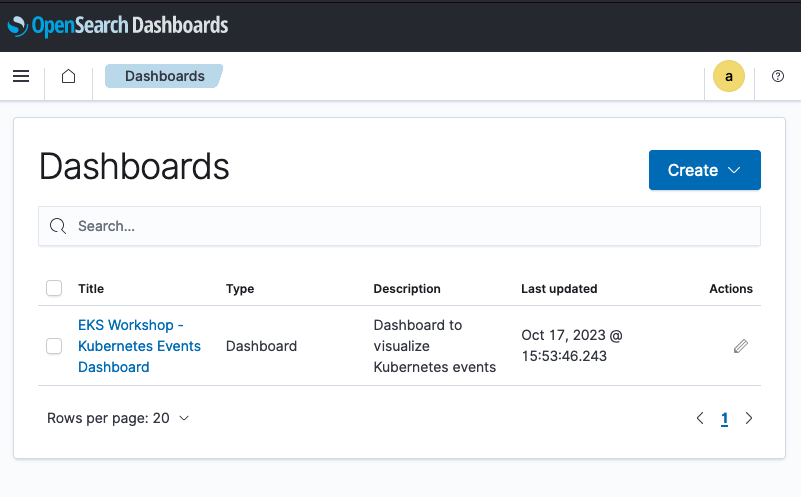
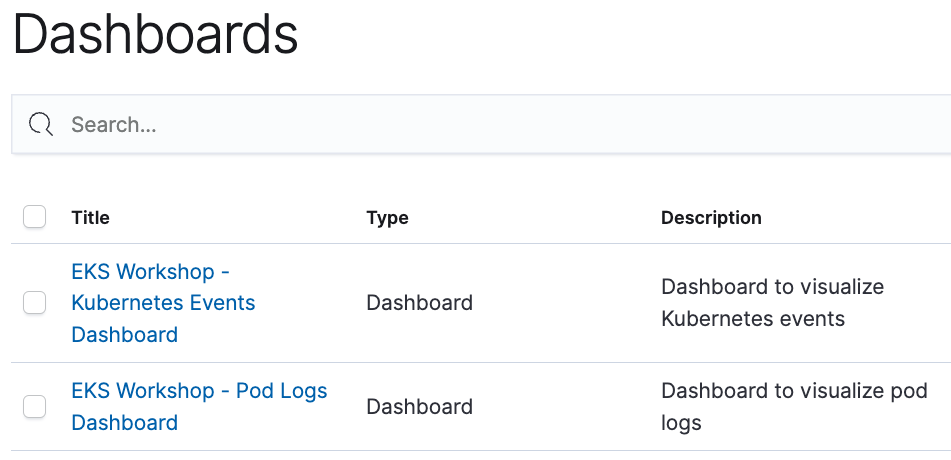
WIP: Pod logs exported to Fluent Bit

diff --git a/website/docs/observability/opensearch/pod-logs.md b/website/docs/observability/opensearch/pod-logs.md
@@ -1,0 +1,53 @@
+---
+title: "Pod logging"
+sidebar_position: 30
+---
+
+This section demonstrates how we can export Kubernetes pod logs to OpenSearch. We'll deploy [AWS for Fluent Bit](https://github.com/aws/aws-for-fluent-bit) to export pod logs to OpenSearch, generate log entries by creating test workloads and explore the OpenSearch pod logs dashboard and use it to identify issues with our test workloads.
+
+Here is a recap of pod logging in Kubernetes and the use of Fluent Bit, which you have already read if you followed the earlier [Logging in EKS](https://www.eksworkshop.com/docs/observability/logging/pod-logging/) section. It describes how pod logging works in Kubernetes:
+
+According to the [Twelve-Factor App manifesto](https://12factor.net/), which provides the gold standard for architecting modern applications, containerized applications should output their [logs to stdout and stderr](https://12factor.net/logs). This is also considered best practice in Kubernetes and cluster level log collection systems are built on this premise.
+
+The Kubernetes logging architecture defines three distinct levels:
+
+* Basic level logging: the ability to grab pods log using kubectl (e.g. `kubectl logs myapp` – where `myapp` is a pod running in my cluster)
+* Node level logging: The container engine captures logs from the application’s `stdout` and `stderr`, and writes them to a log file.
+* Cluster level logging: Building upon node level logging; a log capturing agent runs on each node. The agent collects logs on the local filesystem and sends them to a centralized logging destination like Elasticsearch or CloudWatch. The agent collects two types of logs:
+  * Container logs captured by the container engine on the node
+  * System logs
+
+Kubernetes, by itself, doesn’t provide a native solution to collect and store logs. It configures the container runtime to save logs in JSON format on the local filesystem. Container runtime – like Docker – redirects container’s stdout and stderr streams to a logging driver. In Kubernetes, container logs are written to `/var/log/pods/*.log` on the node. Kubelet and container runtime write their own logs to `/var/logs` or to journald, in operating systems with systemd. Then cluster-wide log collector systems like Fluentd can tail these log files on the node and ship logs for retention. These log collector systems usually run as DaemonSets on worker nodes.
+
+[Fluent Bit](https://fluentbit.io/) is a lightweight log processor and forwarder that allows you to collect data and logs from different sources, enrich them with filters and send them to multiple destinations like CloudWatch, Kinesis Data Firehose, Kinesis Data Streams and Amazon OpenSearch Service.
+
+The following diagram provides an overview of the setup for this section. Fluent Bit will be deployed in the `opensearch-exporter` namespace and it will be configured to forward pod logs to the OpenSearch domain. Pod logs are stored in the `eks-pod-logs` index in OpenSearch.  An OpenSearch dashboard that we loaded earlier is used to visualize the events.
+
+![Pod logs to OpenSearch](./assets/eks-pod-logs-overview.svg)
+
+Deploy Fluent Bit as a [Daemon Set](https://kubernetes.io/docs/concepts/workloads/controllers/daemonset/) and configure it to send pod logs to the OpenSearch domain. The base configuration is available [here](https://github.com/VAR::MANIFESTS_OWNER/VAR::MANIFESTS_REPOSITORY/tree/VAR::MANIFESTS_REF/manifests/modules/observability/opensearch/fluentbit). The OpenSearch credentials we retrieved earlier are used to configure Fluent Bit. The last command verifies that Fluent Bit is running with one pod running on each of the three cluster nodes.
+
+```bash wait=60
+$ helm repo add eks https://aws.github.io/eks-charts
+"eks" has been added to your repositories
+ 
+$ helm install fluentbit eks/aws-for-fluent-bit --namespace opensearch-exporter \
+    --create-namespace \
+    -f ~/environment/eks-workshop/modules/observability/opensearch/fluentbit/values.yaml \
+    --set="opensearch.host"="$OPENSEARCH_HOST" \
+    --set="opensearch.awsRegion"=$AWS_REGION \
+    --set="opensearch.httpUser"="$OPENSEARCH_USER" \
+    --set="opensearch.httpPasswd"="$OPENSEARCH_PASSWORD" \
+    --wait
+ 
+$ kubectl get daemonset -n opensearch-exporter
+
+NAME                           DESIRED   CURRENT   READY   UP-TO-DATE   AVAILABLE   NODE SELECTOR   AGE
+fluentbit-aws-for-fluent-bit   3         3         3       3            3           <none>          60s
+ 
+```
+
+@TODO launch test workload that curls
+
+
+

diff --git a/website/docs/observability/opensearch/events.md b/website/docs/observability/opensearch/events.md
@@ -26,7 +26,7 @@ Kubernetes events are continuously generated but retained within the cluster for
 
 The following diagram provides an overview of the setup for this section. ```kubernetes-events-exporter``` will be deployed in the ```opensearch-exporter``` namespace to forward events to the OpenSearch domain. Events are stored in the ```eks-kubernetes-events``` index in OpenSearch.  An OpenSearch dashboard that we loaded earlier is used to visualize the events.
 
-![OpenSearch](./assets/eks-opensearch-overview.svg)
+![Kubernetes events to OpenSearch](./assets/eks-events-overview.svg)
 
 Deploy Kubernetes events exporter and configure it to send events to our OpenSearch domain. The base configuration is available [here](https://github.com/VAR::MANIFESTS_OWNER/VAR::MANIFESTS_REPOSITORY/tree/VAR::MANIFESTS_REF/manifests/modules/observability/opensearch/events-exporter). The OpenSearch credentials we retrieved earlier are being used to configure the exporter. The second command verifies that the Kubernetes events pod is running.
 
@@ -50,7 +50,7 @@ NAME                                                              READY   STATUS
 events-to-opensearch-kubernetes-event-exporter-67fc698978-2f9wc   1/1     Running   0             10s
 ```
 
-Now we'll generate additional Kubernetes events by launching three deployments labelled `scenario-a, scenario-b and scenario-c` within the `test` namespace to demonstrate `Normal`` and `Warning`` events. Each deployment intentionally includes an error.
+Now we'll generate additional Kubernetes events by launching three deployments labelled `scenario-a, scenario-b and scenario-c` within the `test` namespace to demonstrate `Normal` and `Warning` events. Each deployment intentionally includes an error.
 
 ```bash
 $ kubectl apply -k ~/environment/eks-workshop/modules/observability/opensearch/scenarios/base
@@ -73,7 +73,7 @@ Explore the OpenSearch Kubernetes events dashboard by returning to the OpenSearc
 2. [Top section] Date histogram of events (split between Normal and Warning events)
 3. [Middle section] Kubernetes events shows the total number of events (Normal and Warning)
 4. [Middle section] Warning events seen during the selected time interval.
-5. [Middle section] Warnings broken out by namespace. All the warnings are in the ```test``` namespace in this example
+5. [Middle section] Warnings broken out by namespace. All the warnings are in the `test` namespace in this example
 6. [Bottom section] Detailed events and messages with most recent event first
 
 ![Kubernetes Events dashboard](./assets/events-dashboard.png)
@@ -92,7 +92,7 @@ We can drill down into the full event details as shown in the following image:
 1. Clicking on the '>' next to each event opens up a new section
 1. The full event document can be viewed as a table or in JSON format
 
-An explanation of data fields within Kubernetes events can be found on [kubernetes.io](https://kubernetes.io/docs/reference/kubernetes-api/cluster-resources/event-v1) or by running ```kubectl explain events```.
+An explanation of data fields within Kubernetes events can be found on [kubernetes.io](https://kubernetes.io/docs/reference/kubernetes-api/cluster-resources/event-v1) or by running `kubectl explain events`.
 
 ![Kubernetes Events detail](./assets/events-detail.png)
 

diff --git a/website/docs/observability/opensearch/access-opensearch.md b/website/docs/observability/opensearch/access-opensearch.md
@@ -2,7 +2,7 @@
 title: "Access OpenSearch"
 sidebar_position: 10
 ---
-In this section you will retrieve credentials for OpenSearch from the AWS Systems Manager Parameter Store, load a pre-created OpenSearch dashboard for Kubernetes events and confirm access to the OpenSearch dashboard.
+In this section you will retrieve credentials for OpenSearch from the AWS Systems Manager Parameter Store, load pre-created OpenSearch dashboards for Kubernetes events and pod logs and confirm access to OpenSearch.
 
 Credentials for the OpenSearch domain have been saved in the AWS Systems Manager Parameter Store during the provisioning process. Retrieve this information and set up the necessary environment variables.
 
@@ -19,7 +19,7 @@ $ export OPENSEARCH_PASSWORD=$(aws ssm get-parameter \
 $ export OPENSEARCH_DASHBOARD_FILE=~/environment/eks-workshop/modules/observability/opensearch/dashboard/events-dashboard.ndjson
 ```
 
-Load a pre-created OpenSearch Dashboard to display Kubernetes events. The dashboard is available in [kubernetes-events-dashboard.ndjson](https://github.com/VAR::MANIFESTS_OWNER/VAR::MANIFESTS_REPOSITORY/tree/VAR::MANIFESTS_REF/manifests/modules/observability/opensearch/dashboard). It includes the OpenSearch index patterns, visualizations and dashboard for the Kubernetes Events Dashboard.
+Load pre-created OpenSearch dashboards to display Kubernetes events and pods logs. The dashboards are available in [kubernetes-events-dashboard.ndjson](https://github.com/VAR::MANIFESTS_OWNER/VAR::MANIFESTS_REPOSITORY/tree/VAR::MANIFESTS_REF/manifests/modules/observability/opensearch/dashboard). It includes the OpenSearch index patterns, visualizations and dashboards for Kubernetes events and pod logs.
 
 ```bash
 $ curl -s https://$OPENSEARCH_HOST/_dashboards/auth/login \
@@ -78,6 +78,6 @@ Select the Global tenant as shown below.  Tenants in OpenSearch can be used to s
 
 ![OpenSearch login confirmation](./assets/opensearch-confirm-2.png)
 
-You should see a dashboard called "EKS Workshop - Kubernetes Events Dashboard", which we loaded in Step 2. The dashboard is currently empty since there is no data in OpenSearch yet.  Keep this browser tab open or save the dashboard URL. We will return to the dashboard in the next section.  
+You should see the two dashboards (for Kubernetes events and pod logs) that we loaded in Step 2. The dashboards are currently empty since there is no data in OpenSearch yet.  Keep this browser tab open or save the dashboard URL. We will return to the dashboard in the next section.  
 
 ![OpenSearch login confirmation](./assets/opensearch-dashboard-launch.png)

diff --git a/website/docs/observability/opensearch/index.md b/website/docs/observability/opensearch/index.md
@@ -24,4 +24,4 @@ You can view the Terraform that applies these changes [here](https://github.com/
 
 In this lab, we will explore the use of [OpenSearch](https://opensearch.org/about.html) for observability. OpenSearch is a community-driven, open-source search and analytics suite used to ingest, search, visualize and analyze data. OpenSearch consists of a data store and search engine (OpenSearch), a visualization and user interface (OpenSearch Dashboards), and a server-side data collector (Data Prepper). We will be using [Amazon OpenSearch Service](https://aws.amazon.com/opensearch-service/), which is a managed service that makes it easy for you to perform interactive log analytics, real-time application monitoring, search, and more.
 
-Kubernetes events are exported from EKS to OpenSearch to demonstrate how the two services can be used together to improve observability.
+Kubernetes events and pod logs are exported from Amazon EKS to Amazon OpenSearch Service to demonstrate how the two services can be used together to improve observability.
